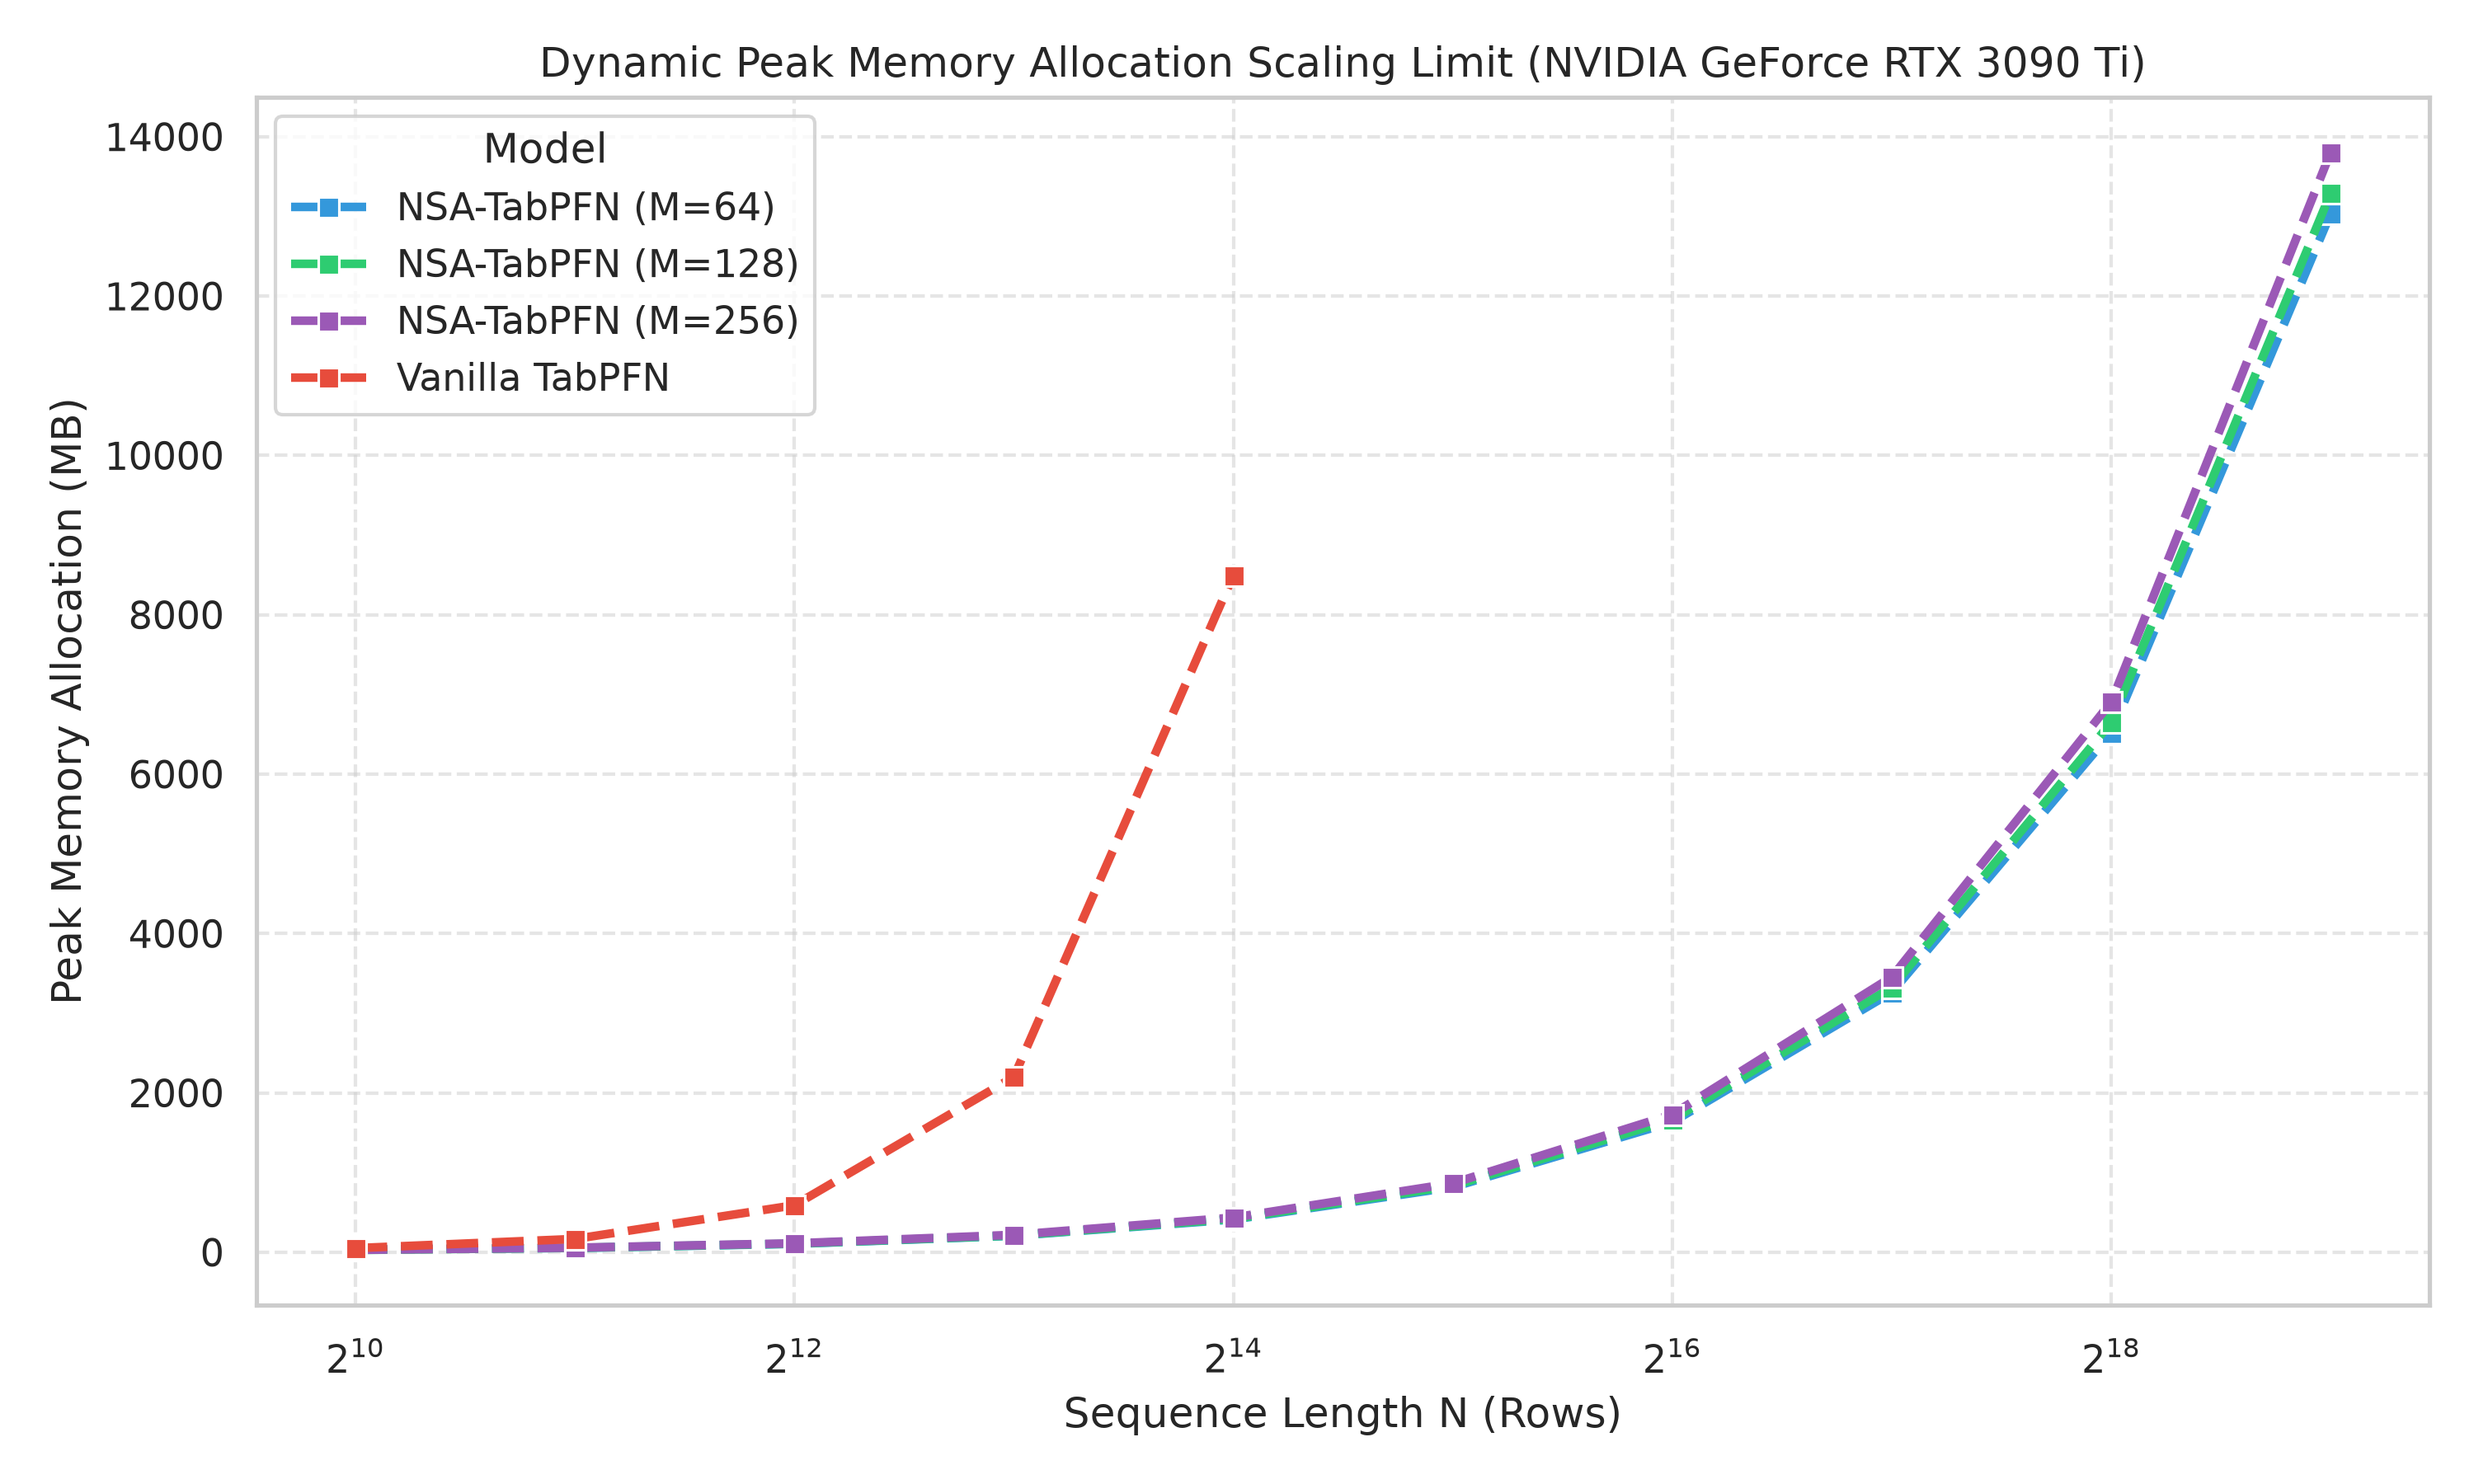
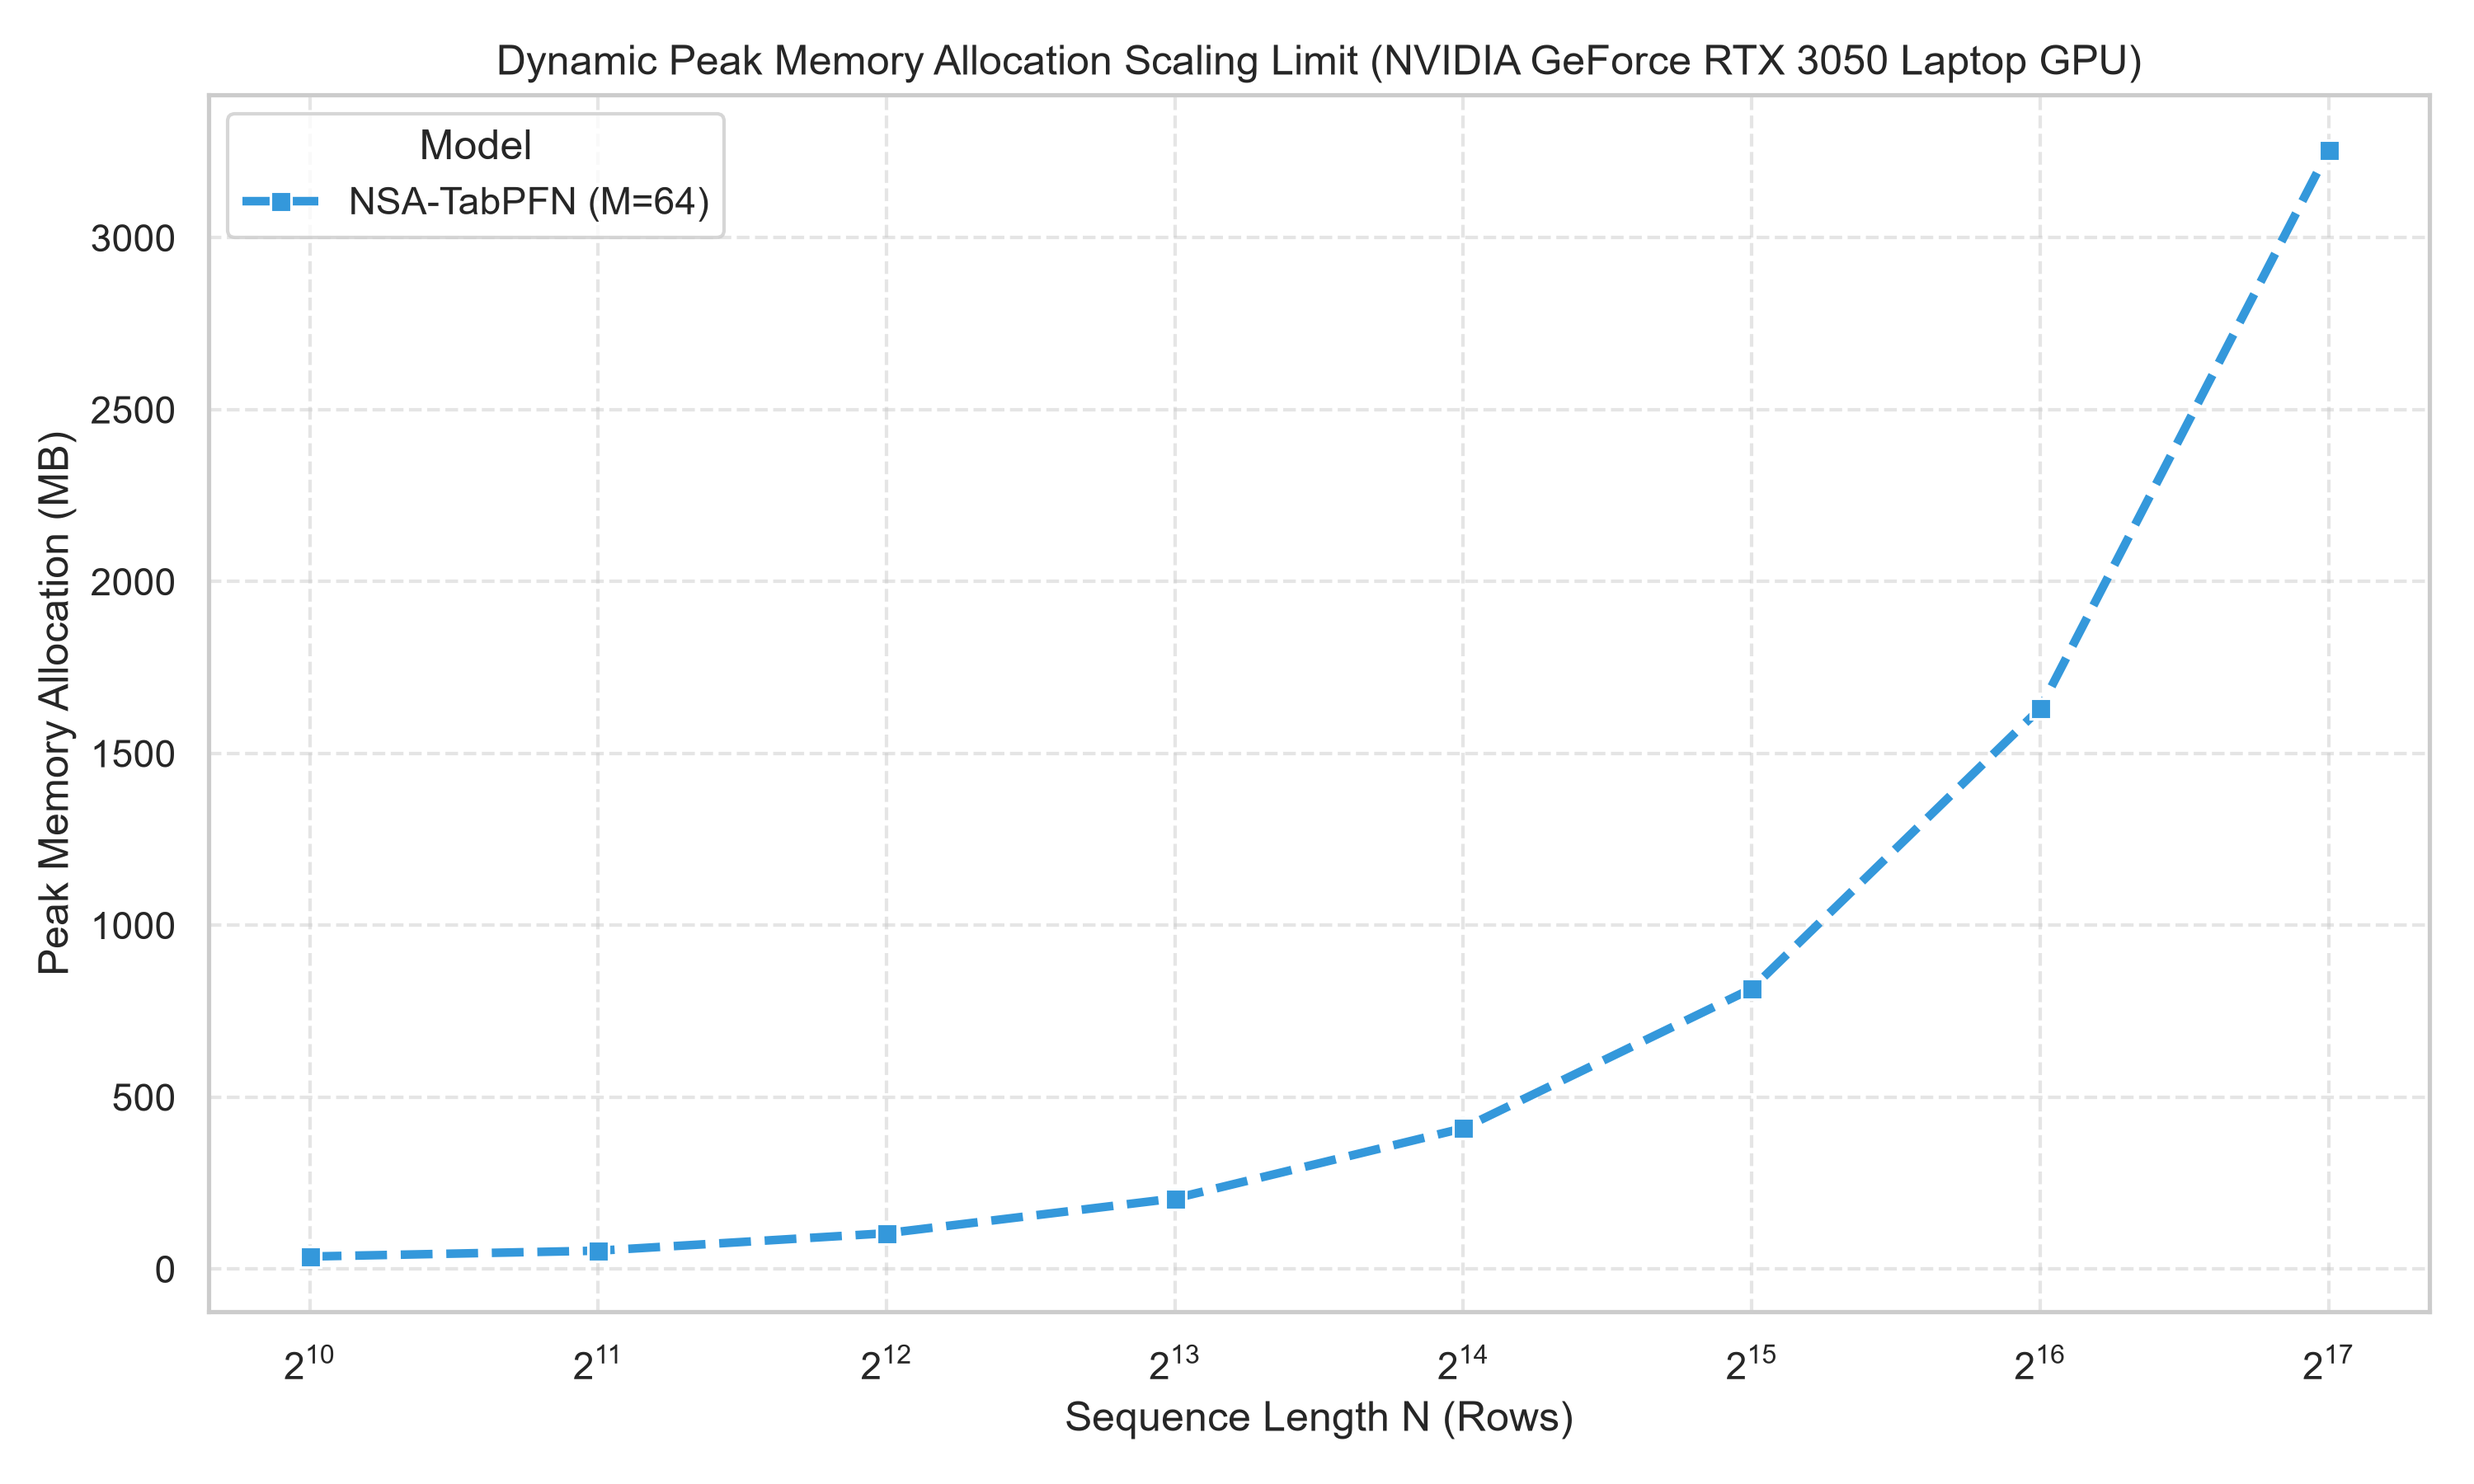
Automate isolated subprocess extreme scaling benchmarks on local GPU

diff --git a/benchmarks/benchmark_server_extreme_scaling.py b/benchmarks/benchmark_server_extreme_scaling.py
@@ -8,9 +8,12 @@ import os
 import sys
 import numpy as np
 import pandas as pd
+import subprocess
+import json
 
 # Append workspace path to system path
 sys.path.append(os.path.abspath(os.path.join(os.path.dirname(__file__), '..')))
+sys.path.append(os.path.abspath(os.path.join(os.path.dirname(__file__), '..', 'tests')))
 
 # --- COMPATIBILITY PATCHES ---
 import typing
@@ -54,24 +57,58 @@ def generate_synthetic_data(n_samples, n_features=20):
     y = (X[:, 0] + X[:, 1] > 0).long()
     return X.numpy(), y.numpy()
 
-def run_unlimited_single_process_scaling():
+def run_single_eval(model_name, M, N):
+    """Executes a single scale evaluation and prints raw JSON result for parent to read."""
+    device = "cuda" if torch.cuda.is_available() else "cpu"
+    if model_name == 'Vanilla TabPFN':
+        restore_vanilla_tabpfn()
+    else:
+        inject_nsatabpfn(num_prototypes=M)
+
+    try:
+        X_train, y_train = generate_synthetic_data(N)
+        X_test, y_test = generate_synthetic_data(100)
+        
+        clf = TabPFNClassifier(device=device, N_ensemble_configurations=1)
+        
+        start_mem = get_vram_usage()
+        start_time = time.time()
+        
+        clf.fit(X_train, y_train, overwrite_warning=True)
+        probs = clf.predict_proba(X_test)
+        
+        exec_time = time.time() - start_time
+        peak_mem = max(0.0, get_vram_usage() - start_mem)
+        
+        preds = probs.argmax(axis=1)
+        acc = (preds == y_test).mean()
+        
+        result = {
+            'Status': 'Success',
+            'Latency (s)': round(exec_time, 4),
+            'Peak Memory (MB)': round(peak_mem, 2),
+            'Accuracy': round(float(acc), 4)
+        }
+    except Exception as e:
+        result = {
+            'Status': 'Failed',
+            'Error': str(e)
+        }
+    
+    # Restore clean state
+    restore_vanilla_tabpfn()
+    print(f"JSON_RESULT:{json.dumps(result)}")
+
+def run_unlimited_scaling():
     device = "cuda" if torch.cuda.is_available() else "cpu"
     hw_name = get_hardware_name()
     
     print("=" * 70)
-    print("NSA-TABPFN EXTREME SCALING BENCHMARK SUITE")
+    print("NSA-TABPFN EXTREME SCALING BENCHMARK SUITE (SUBPROCESS RUNNER)")
     print("=" * 70)
     print(f"Target Hardware : {hw_name}")
     print(f"Device Active   : {device.upper()}")
     print("Dataset Profile : Synthetic Tabular Classification (20 features, binary labels)")
-    
-    if not torch.cuda.is_available():
-        print("\n" + "!" * 70)
-        print("WARNING: CUDA is NOT active in PyTorch. The benchmark is running on CPU.")
-        print("To run on the RTX 3090 Ti GPU, reinstall PyTorch matching your CUDA 12.2 driver:")
-        print("  uv pip install --force-reinstall torch --index-url https://download.pytorch.org/whl/cu121")
-        print("!" * 70 + "\n")
-        
     print("=" * 70)
     
     configs = [
@@ -85,74 +122,73 @@ def run_unlimited_single_process_scaling():
     
     for label, model_name, M in configs:
         print(f"\n=== Benchmarking Configuration: {label} ===")
-        
         N = 1024
         while True:
             print(f"Evaluating N = {N:,} rows...")
             
-            # 1. Clean memory before execution
-            gc.collect()
-            if torch.cuda.is_available():
-                torch.cuda.empty_cache()
-                torch.cuda.reset_peak_memory_stats()
+            # Spawn subprocess to isolate GPU memory allocations completely
+            cmd = [
+                sys.executable,
+                __file__,
+                "--subprocess",
+                model_name,
+                str(M),
+                str(N)
+            ]
             
-            # 2. Inject patch or restore vanilla
-            if model_name == 'Vanilla TabPFN':
-                restore_vanilla_tabpfn()
-            else:
-                inject_nsatabpfn(num_prototypes=M)
-                
-            # 3. Run evaluation inside try/except block
             try:
-                X_train, y_train = generate_synthetic_data(N)
-                X_test, y_test = generate_synthetic_data(100)
+                proc = subprocess.run(
+                    cmd,
+                    capture_output=True,
+                    text=True,
+                    timeout=300
+                )
                 
-                clf = TabPFNClassifier(device=device, N_ensemble_configurations=1)
+                # Parse output to find the JSON result marker
+                json_str = None
+                for line in proc.stdout.splitlines():
+                    if line.startswith("JSON_RESULT:"):
+                        json_str = line[len("JSON_RESULT:"):]
+                        break
                 
-                start_mem = get_vram_usage()
-                start_time = time.time()
-                
-                clf.fit(X_train, y_train, overwrite_warning=True)
-                probs = clf.predict_proba(X_test)
-                
-                exec_time = time.time() - start_time
-                peak_mem = max(0.0, get_vram_usage() - start_mem)
-                
-                preds = probs.argmax(axis=1)
-                acc = (preds == y_test).mean()
-                
-                print(f"-> Success: {exec_time:.2f}s, Peak Memory: {peak_mem:.2f} MB, Acc: {acc:.4f}")
-                results.append({
-                    'Model': label, 'N': N, 
-                    'Latency (s)': exec_time, 'Peak Memory (MB)': peak_mem,
-                    'Accuracy': acc, 'Hardware': hw_name, 'Status': 'Success'
-                })
-                
-                # Free memory immediately
-                del clf, X_train, y_train, X_test, y_test, probs
-                
-                # Double sequence length
-                N *= 2
-                
-            except Exception as e:
-                err_msg = str(e)
-                print(f"-> Configuration {label} hit resource ceiling/OOM on N = {N:,}: {err_msg}")
+                if json_str:
+                    res = json.loads(json_str)
+                    if res['Status'] == 'Success':
+                        print(f"-> Success: {res['Latency (s)']}s, Peak Memory: {res['Peak Memory (MB)']} MB, Acc: {res['Accuracy']}")
+                        results.append({
+                            'Model': label, 'N': N, 
+                            'Latency (s)': res['Latency (s)'], 'Peak Memory (MB)': res['Peak Memory (MB)'],
+                            'Accuracy': res['Accuracy'], 'Hardware': hw_name, 'Status': 'Success'
+                        })
+                        N *= 2
+                    else:
+                        err_msg = res['Error']
+                        print(f"-> Failed/OOM: {err_msg}")
+                        results.append({
+                            'Model': label, 'N': N, 
+                            'Latency (s)': np.nan, 'Peak Memory (MB)': np.nan,
+                            'Accuracy': np.nan, 'Hardware': hw_name, 'Status': f'Failed/OOM ({err_msg})'
+                        })
+                        break
+                else:
+                    # No JSON result found: process crashed or failed silently
+                    err_msg = proc.stderr.strip() or "Subprocess crashed silently."
+                    print(f"-> Crash/OOM: {err_msg}")
+                    results.append({
+                        'Model': label, 'N': N, 
+                        'Latency (s)': np.nan, 'Peak Memory (MB)': np.nan,
+                        'Accuracy': np.nan, 'Hardware': hw_name, 'Status': f'Failed/OOM ({err_msg})'
+                    })
+                    break
+            except subprocess.TimeoutExpired:
+                print("-> Timeout Expired (exceeded 300s)")
                 results.append({
                     'Model': label, 'N': N, 
                     'Latency (s)': np.nan, 'Peak Memory (MB)': np.nan,
-                    'Accuracy': np.nan, 'Hardware': hw_name, 'Status': f'Failed/OOM ({err_msg})'
+                    'Accuracy': np.nan, 'Hardware': hw_name, 'Status': 'Timeout'
                 })
-                
-                # Clear references on exception
-                try:
-                    del clf, X_train, y_train, X_test, y_test
-                except:
-                    pass
                 break
                 
-    # Restore to clean state
-    restore_vanilla_tabpfn()
-            
     # Save raw data
     if results:
         df = pd.DataFrame(results)
@@ -173,28 +209,30 @@ def run_unlimited_single_process_scaling():
         # Time comparison
         plt.figure(figsize=(10, 6))
         df_plot_time = df.dropna(subset=['Latency (s)'])
-        sns.lineplot(data=df_plot_time, x='N', y='Latency (s)', hue='Model', marker='o', linewidth=2.5, palette=colors)
-        plt.xscale('log', base=2)
-        plt.yscale('log', base=10)
-        plt.xlabel('Sequence Length N (Rows)')
-        plt.ylabel('Execution Time (seconds)')
-        plt.title(f'Dynamic Inference Latency Scaling Limit ({hw_name})')
-        plt.grid(True, which="both", ls="--", alpha=0.5)
-        plt.tight_layout()
-        plt.savefig('assets/server_extreme_scaling_time.png', dpi=300)
+        if not df_plot_time.empty:
+            sns.lineplot(data=df_plot_time, x='N', y='Latency (s)', hue='Model', marker='o', linewidth=2.5, palette=colors)
+            plt.xscale('log', base=2)
+            plt.yscale('log', base=10)
+            plt.xlabel('Sequence Length N (Rows)')
+            plt.ylabel('Execution Time (seconds)')
+            plt.title(f'Dynamic Inference Latency Scaling Limit ({hw_name})')
+            plt.grid(True, which="both", ls="--", alpha=0.5)
+            plt.tight_layout()
+            plt.savefig('assets/server_extreme_scaling_time.png', dpi=300)
         plt.close()
         
         # Memory comparison
         plt.figure(figsize=(10, 6))
         df_plot_mem = df.dropna(subset=['Peak Memory (MB)'])
-        sns.lineplot(data=df_plot_mem, x='N', y='Peak Memory (MB)', hue='Model', marker='s', linewidth=2.5, linestyle='--', palette=colors)
-        plt.xscale('log', base=2)
-        plt.xlabel('Sequence Length N (Rows)')
-        plt.ylabel('Peak Memory Allocation (MB)')
-        plt.title(f'Dynamic Peak Memory Allocation Scaling Limit ({hw_name})')
-        plt.grid(True, which="both", ls="--", alpha=0.5)
-        plt.tight_layout()
-        plt.savefig('assets/server_extreme_scaling_memory.png', dpi=300)
+        if not df_plot_mem.empty:
+            sns.lineplot(data=df_plot_mem, x='N', y='Peak Memory (MB)', hue='Model', marker='s', linewidth=2.5, linestyle='--', palette=colors)
+            plt.xscale('log', base=2)
+            plt.xlabel('Sequence Length N (Rows)')
+            plt.ylabel('Peak Memory Allocation (MB)')
+            plt.title(f'Dynamic Peak Memory Allocation Scaling Limit ({hw_name})')
+            plt.grid(True, which="both", ls="--", alpha=0.5)
+            plt.tight_layout()
+            plt.savefig('assets/server_extreme_scaling_memory.png', dpi=300)
         plt.close()
         
         print("Generated scaling charts in assets/")
@@ -202,4 +240,10 @@ def run_unlimited_single_process_scaling():
         print("\nNo successful runs to plot.")
 
 if __name__ == "__main__":
-    run_unlimited_single_process_scaling()
+    if len(sys.argv) > 1 and sys.argv[1] == "--subprocess":
+        model_name = sys.argv[2]
+        M = int(sys.argv[3])
+        N = int(sys.argv[4])
+        run_single_eval(model_name, M, N)
+    else:
+        run_unlimited_scaling()
